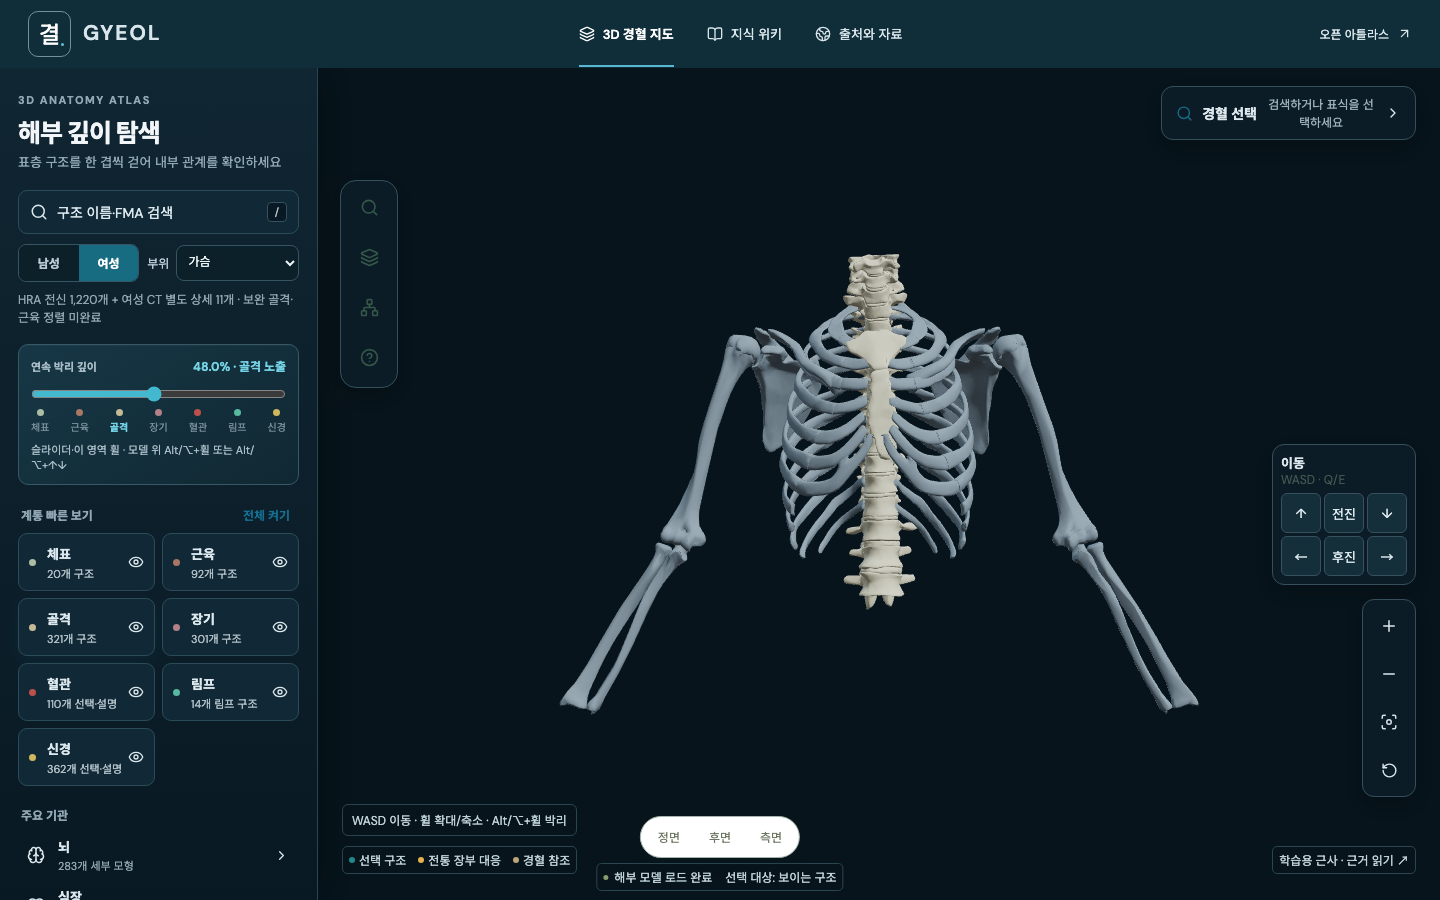
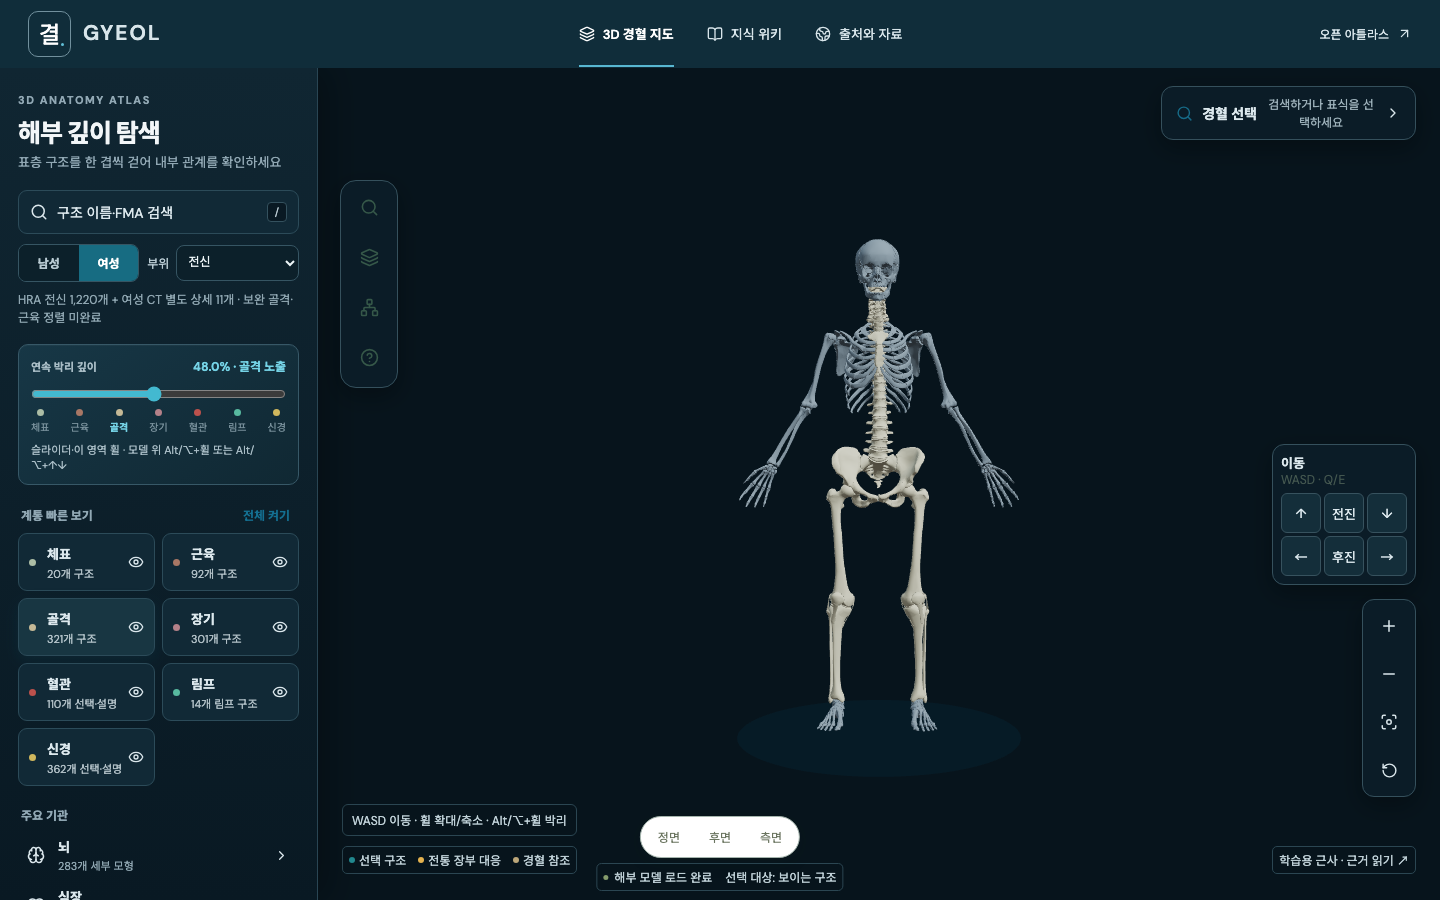
Record public verification of partial female arm registration

Changed region(s): [[0.375, 0.2489, 0.8438, 0.8089], [0.125, 0.28, 0.1562, 0.3111]]

diff --git a/docs/anatomy-alignment/FEMALE_ARM_PARTIAL_REGISTRATION.md b/docs/anatomy-alignment/FEMALE_ARM_PARTIAL_REGISTRATION.md
@@ -57,6 +57,12 @@ node scripts/audit-body-containment.mjs --all-female-vertices
 
 프로덕션 스모크(남성9 GLB·여성15청크·요청 시 별도 CT1청크·위키 복원·브라우저 오류0), 모바일 가독성(검사한 도구 텍스트12px 이상·대비4.5:1 이상), 네 화면 크기의 기존 시각 게이트도 통과했습니다. 데스크톱 단독·모바일 비교·작은 모바일 단독·가로 단독 캡처를 직접 확인했습니다. 공개 검사 스크립트 `check-female-arm-pages.mjs`의 로컬 선행 실행에서 양측 위팔뼈/셋째 손허리뼈4개의 선택 확대 타깃이 독립 계산한 교정 경계 중심과 정확히 일치했습니다. 공개 배포 결과는 별도로 기록합니다.
 
+### 공개 배포 확인
+
+구현 커밋 `5627d08748b0939813cb940148dca5bbdb2f29b5`와 [Pages 작업35517690245](https://github.com/jay-jang/gyeol-atlas/actions/runs/35517690245)이 성공했습니다. 공개 HTTPS에서 위4개 골격의 선택 확대 타깃 오차0m·브라우저/HTTP 오류0을 확인했습니다([측정](pages-female-arm-verification.json), [공개 화면](pages-female-arms-registered.png)). 공개 전 정점의 해시 대조와 달리, 공개 검사는4개 실제 선택 경계의 카메라 연동 검사입니다. 경혈409개·정적 위키·남성 심장83개·여성 전신1220개·여성 뇌283개·모바일 스모크도 오류0으로 통과했습니다. 전체 해부 정합 목표는 계속 미완료입니다.
+
+공개 검사 후 캡처 부위를 전신으로 명시하는 과정에서 검사 스크립트가 경혈용 ‘모델 부위 선택’을 찾다가 시간 초과됐습니다. 앱을 바꾼 것이 아니라 실제 전신 선택기의 접근성 이름 ‘전신 부위 선택’으로 검사 대상을 수정해 재실행했습니다. 첫 공개 위치 검사의 통과와 이 후속 캡처 검사 오류를 구분합니다.
+
 직접 확인한 화면: [선택한 위팔뼈](female-arm-selected.png), [골격 전신](female-arms-registered.png), [모바일 전신](female-arms-registered-mobile.png). 선택 확대는 교정 후 실제 경계를 사용합니다. 모바일 전신에서는 오른쪽 이동 도구가 전완 일부와 겹치는 UI 제한이 남습니다. 이 캡처를 모든 구조가 가림 없이 보인다는 증거로 해석하지 않습니다.
 
 같은 피부·카메라에서의 진단 비교: [교정 전](arm-partial-before.png), [교정 후 오른팔](arm-partial-after.png), [교정 후 왼팔](arm-partial-after-left.png), [캡처 해시와 입력](arm-partial-captures.json). 이미 교정되는 앱에서 변환이 두 번 적용되지 않도록 이 일회용 진단 장면은 먼저 고정 원본 정점/노멀로 복구한 뒤 후보를 적용합니다. 이 이미지는 부분 개선을 관찰하는 진단 화면이며 배포 증거는 아닙니다. 엄지 등 손가락의 남은 불일치도 확인했습니다.

diff --git a/docs/anatomy-alignment/VERIFICATION.md b/docs/anatomy-alignment/VERIFICATION.md
@@ -4,6 +4,8 @@
 
 큰 팔 위치 이탈을 줄이는 정적 변환을 런타임에 연결했습니다. 이동한60개 골격의 피부 이탈 정점13,161→915, 정점별 새 이탈·이탈 거리 악화0, 전신 골격과의17,430쌍에서 새 교차0입니다. 양측 긴뼈6개의 피부 이탈과 지정 관절 교차는 없어졌지만 손가락·다른 보완 골격·근육 문제는 남습니다. **전체 정합 완료가 아닙니다.** 원본 파일과 여성 고유 기관/뇌/신경 좌표는 유지합니다. [부분 교정·검사·agy 정정](FEMALE_ARM_PARTIAL_REGISTRATION.md). 단위55/55·전체 브라우저34/34·남녀201설정 좌표 감사·빌드·프로덕션·가독성·네 화면 크기 게이트를 통과했습니다. 배포 결과는 후속 기록으로 구분합니다.
 
+위 부분 교정의 구현 커밋 `5627d08`은 [Pages 작업35517690245](https://github.com/jay-jang/gyeol-atlas/actions/runs/35517690245)으로 배포했습니다. 공개4개 골격 선택 확대의 교정 경계 중심 일치와 기존 Pages 스모크를 확인했습니다. [공개 측정](pages-female-arm-verification.json). 아래 VIVA+ 기록은 이 변경 이전의 독립 자료 조사입니다.
+
 ## 앞선 후속: 여성 상지의 별도 원본 확보
 
 VIVA+ v2.0.2 `50F-standing` 원본을 실제 확보하고 전체 ZIP 무결성과 상지96개 계산 부품·참조 노드80,456개·관절16개를 검사했습니다. 후속으로 실제 경계면24개 진단 그룹을 추출해 원본 좌표 보존·기하 연결·관절16쌍·실제 화면5개를 확인했습니다. 손뼈 집합에는 각19개 분리 성분이 있지만 손목은 하나의 집합이고, 원본 팔꿈치에도 교차가 남습니다. Node52/52, 추출6/6·파서10/10 및 agy 제한 검토를 기록했습니다. HRA 정합은 아직 미검증이며 **공개 모델 위치는 바뀌지 않았습니다**. [원본 감사와 적용 전 조건](VIVA_SOURCE_AUDIT.md). 전체 목표는 진행 중입니다.
